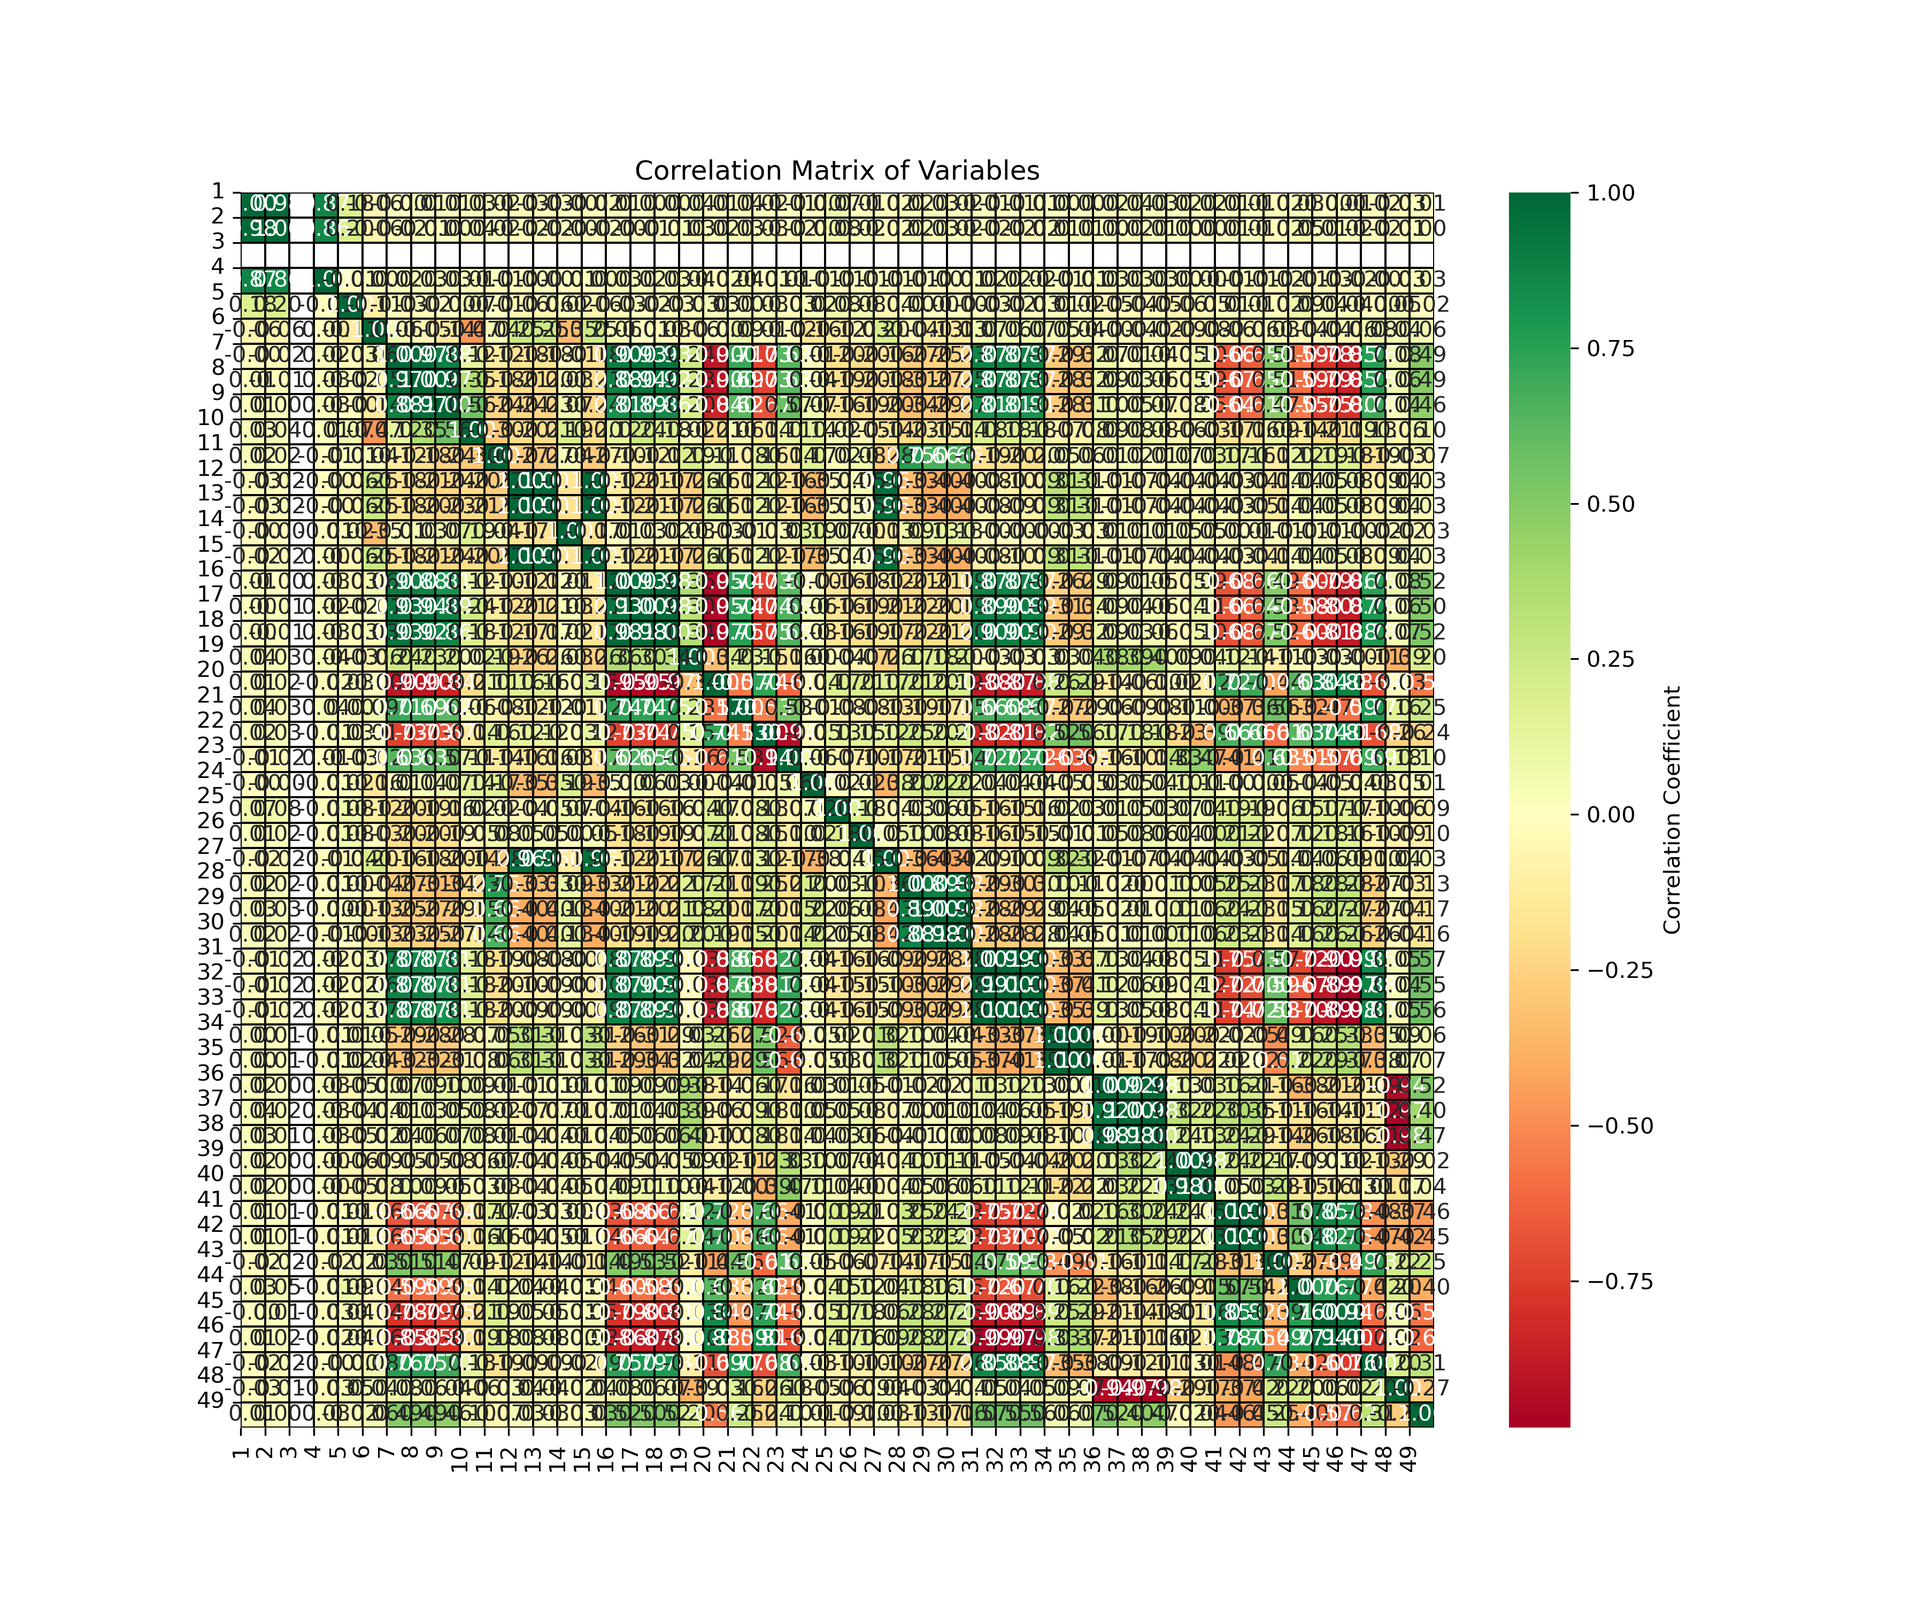
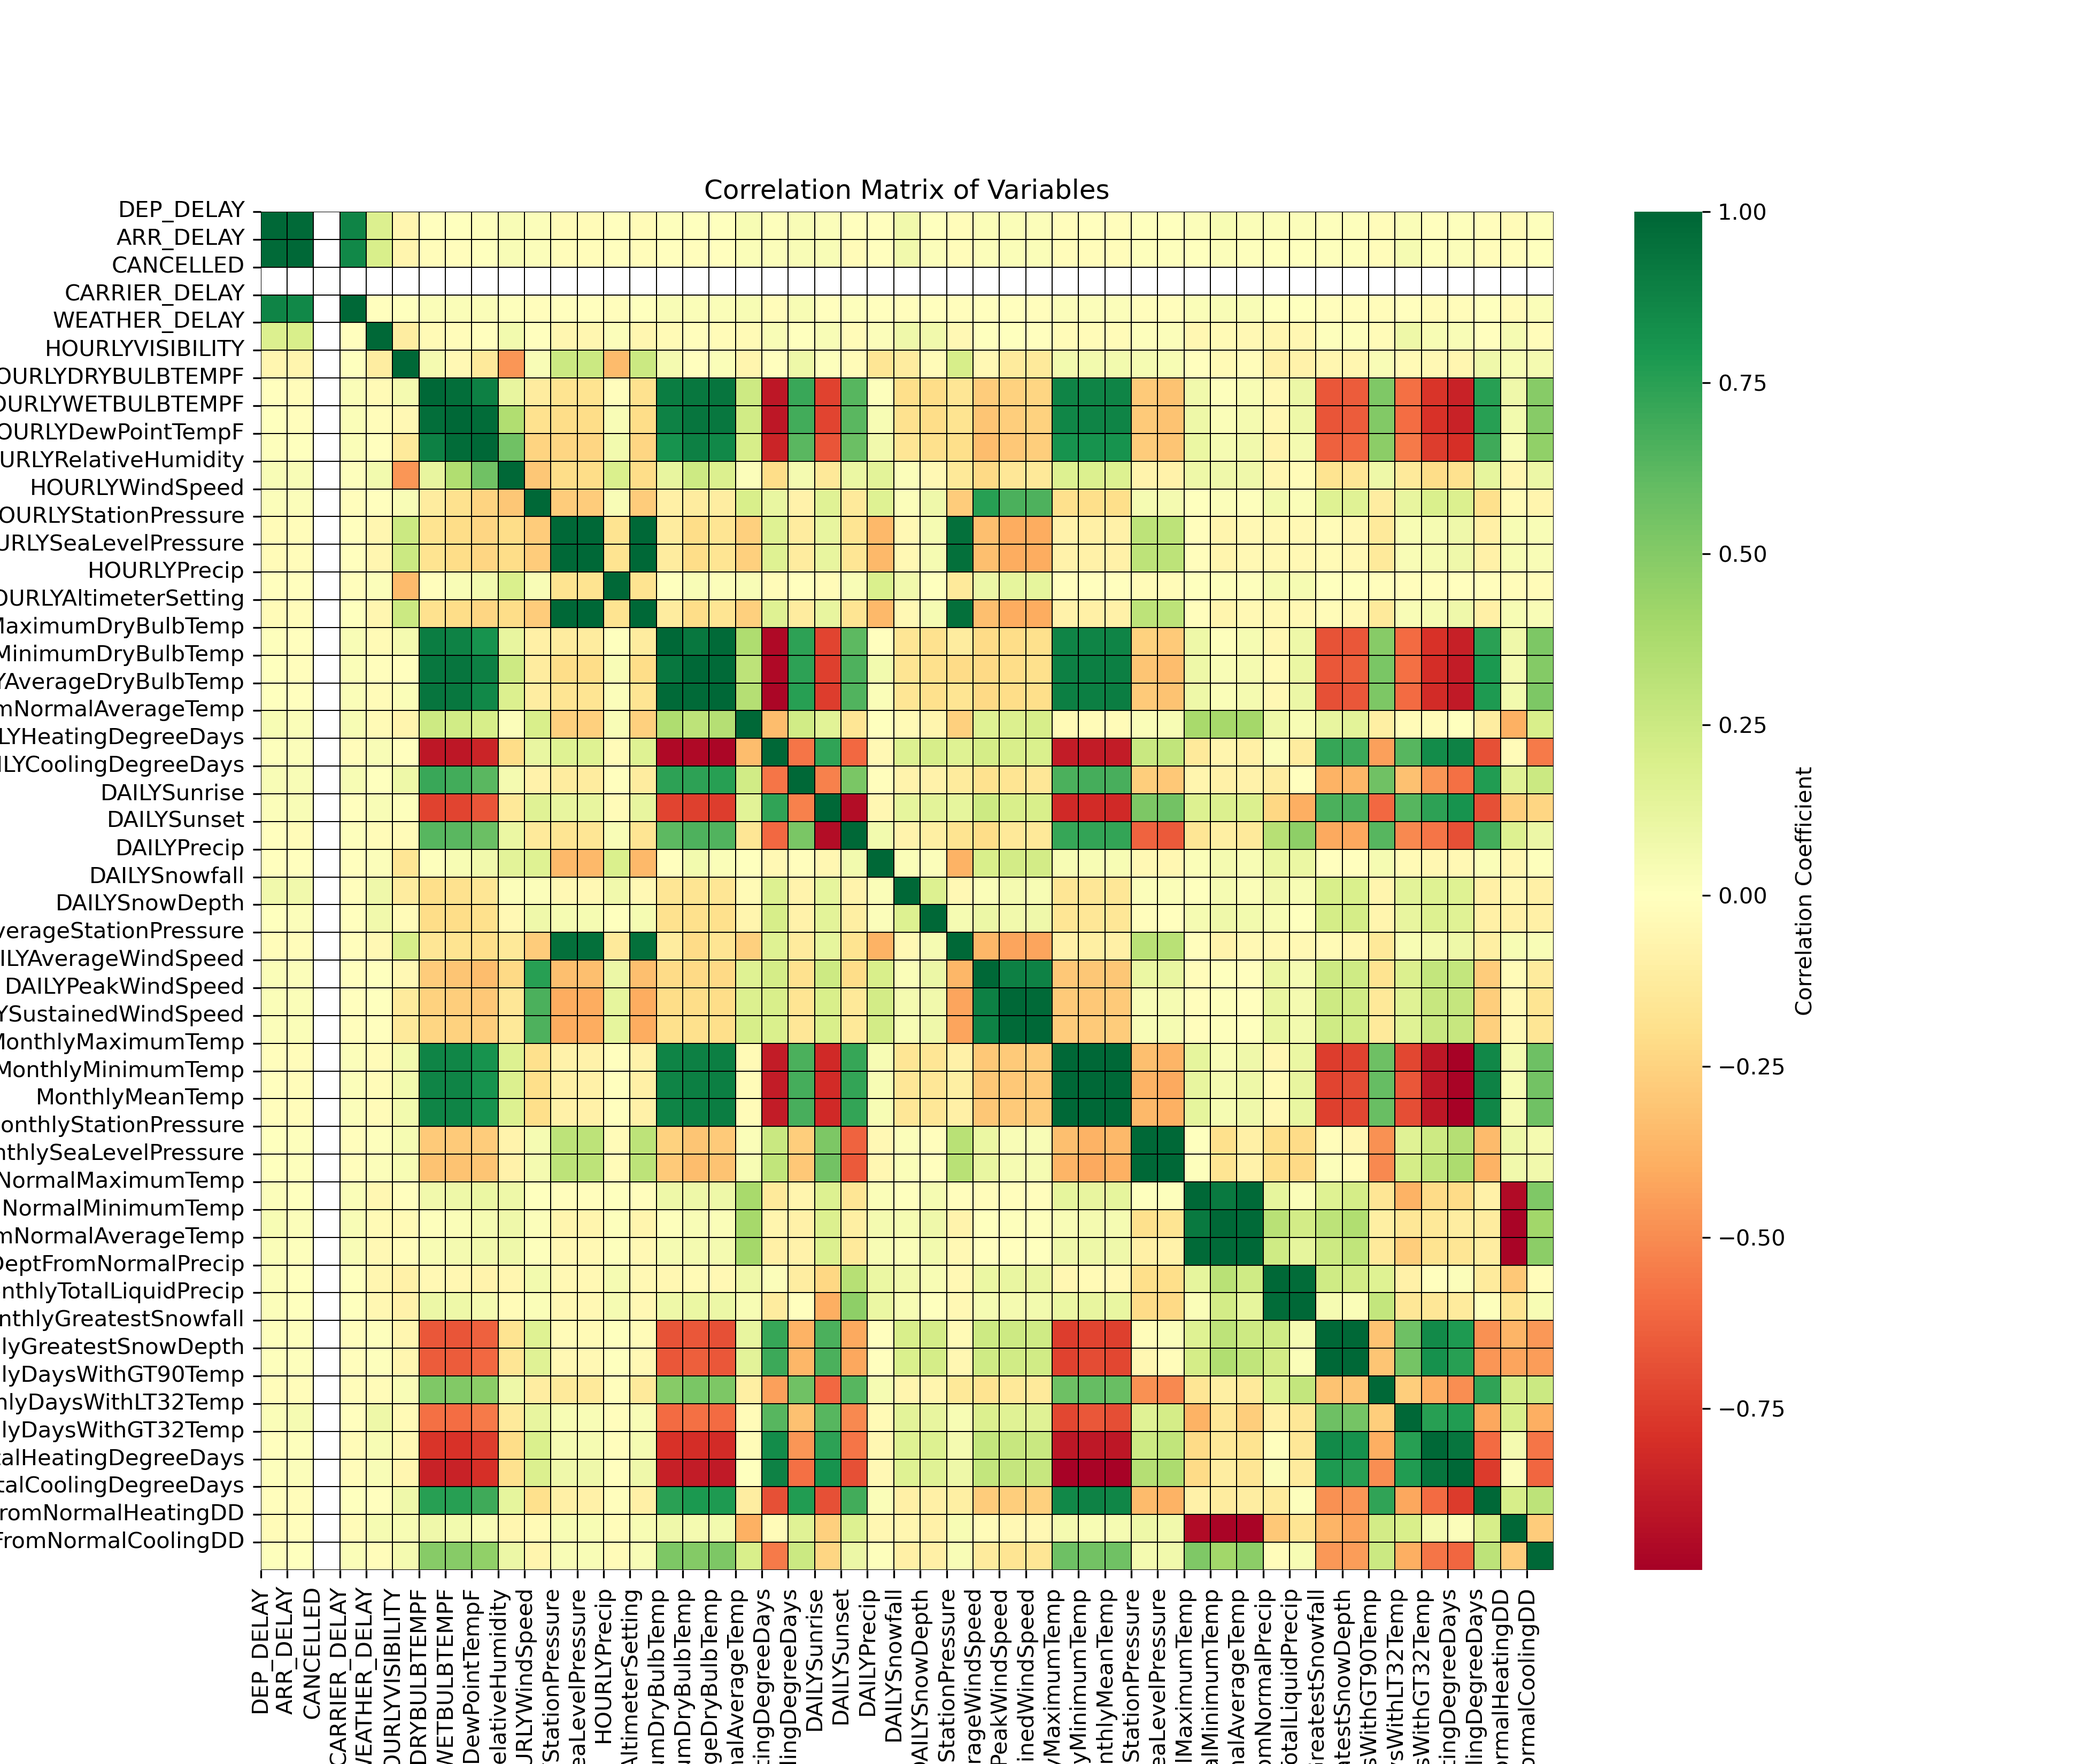
corr matrix typo

Changed region(s): [[0.0, 0.093, 0.7467, 1.0], [0.84, 0.434, 0.8711, 0.558], [0.84, 0.682, 0.8711, 0.713]]

diff --git a/2_Data_exploration/stat_exploratoire.py b/2_Data_exploration/stat_exploratoire.py
@@ -129,7 +129,7 @@ plane_weather['Full_Departure_Datetime'] = pd.to_datetime(plane_weather['Full_De
 plane_weather['DATE_weather'] = pd.to_datetime(plane_weather['DATE_weather'])
 print(plane_weather.info())
 
-
+'''
 # Retards moyens par mois
 plane_weather['Month'] = plane_weather['Full_Departure_Datetime'].dt.month
 monthly_delays = plane_weather.groupby('Month')[['DEP_DELAY', 'ARR_DELAY']].mean()
@@ -243,8 +243,6 @@ ax4 = plt.subplot(4, 1, 4)
 format_subplot(ax4, plane_weather, 'Full_Departure_Datetime', 'HOURLYStationPressure', 'Pressure', 'gray', 'Pressure (in Hg)')
 plt.tight_layout(rect=[0, 0, 1, 0.96])  # Adjust layout to avoid title overlap
 plt.savefig('/home/onyxia/work/Avions-Retard-et-Meteo/2_Data_exploration/pictures/6_weather_2017_summary.png', dpi=300)
-plt.show()
-
 
 
 
@@ -274,27 +272,53 @@ for i, month in enumerate(months):
     format_subplot(ax, month_data, 'DATE_weather', ['DAILYPrecip', 'DAILYSnowDepth', 'HOURLYStationPressure', 'DAILYAverageDryBulbTemp'], labels, colors, 'Values')
     ax.set_title(f'{month}')
     
-
-# Add main title for the entire figure
 plt.suptitle('Weather Month by Month', fontsize=16, fontweight='bold')
 
-
-# Adjust the position of the legend (at the bottom horizontally)
 plt.legend(loc='center', bbox_to_anchor=(-1.2, -0.09), ncol=4)  # Légende centrée en bas
 plt.tight_layout(rect=[0, 0, 1, 0.95]) # Adjust layout for title
 
 plt.savefig('/home/onyxia/work/Avions-Retard-et-Meteo/2_Data_exploration/pictures/7_month_by_month.png', dpi=300)
 
-plane_weather['DAILYPrecip'] = plane_weather['DAILYPrecip']/10 #to remove the modification
+plane_weather['DAILYPrecip'] = plane_weather['DAILYPrecip']/10 #to remove the modification'''
+
+
 
 
 #STEP 2: finding relations between the variables
 corr_matrix = plane_weather_for_ML.corr()
-plt.figure(figsize=(12, 10))
-sns.heatmap(corr_matrix, annot=True, fmt=".2f", cmap='RdYlGn', center=0, cbar_kws={'label': 'Correlation Coefficient'}, linewidths=0.5, linecolor='black')
+plt.figure(figsize=(13, 11))
+sns.heatmap(corr_matrix, annot=False, cmap='RdYlGn', center=0, cbar_kws={'label': 'Correlation Coefficient'}, linewidths=0.4, linecolor='black')
 ticks = np.arange(len(plane_weather_for_ML.columns))
-plt.xticks(ticks, np.arange(1, len(plane_weather_for_ML.columns) + 1), rotation=90)
-plt.yticks(ticks, np.arange(1, len(plane_weather_for_ML.columns) + 1), rotation=0)
+'''plt.xticks(ticks, np.arange(1, len(plane_weather_for_ML.columns) + 1), rotation=90)
+plt.yticks(ticks, np.arange(1, len(plane_weather_for_ML.columns) + 1), rotation=0)'''
+
+plt.xticks(ticks=np.arange(len(plane_weather_for_ML.columns)), labels=plane_weather_for_ML.columns, rotation=90)
+plt.yticks(ticks=np.arange(len(plane_weather_for_ML.columns)), labels=plane_weather_for_ML.columns, rotation=0)
+
 plt.title('Correlation Matrix of Variables')
 plt.savefig('/home/onyxia/work/Avions-Retard-et-Meteo/2_Data_exploration/pictures/8_Corr_matrix.png', dpi=300)
 
+#Isolating the variables with a strong correlation
+threshold = 0.7
+strongly_correlated_pairs = []
+for i in range(len(corr_matrix.columns)):
+    for j in range(i):
+        if abs(corr_matrix.iloc[i, j]) > threshold:  # Si la corrélation est au-dessus du seuil
+            strongly_correlated_pairs.append((corr_matrix.columns[i], corr_matrix.columns[j], corr_matrix.iloc[i, j]))
+
+# Afficher les paires fortement corrélées
+for pair in strongly_correlated_pairs:
+    print(f'Variables: {pair[0]} & {pair[1]}, Corrélation: {pair[2]:.2f}')
+
+
+#We remove strongly correlated variables
+variables_to_keep = [var for var in corr_matrix.columns if var not in variables_to_remove]
+print("\nVariables to keep :", variables_to_keep)
+
+# We delete the useless variables in the dataframe
+plane_weather_cleaned = plane_weather[variables_to_keep]
+
+# Afficher le DataFrame nettoyé (optionnel)
+import ace_tools as tools; tools.display_dataframe_to_user(name="Cleaned DataFrame", dataframe=plane_weather_cleaned)
+
+#looking for temporal relations
